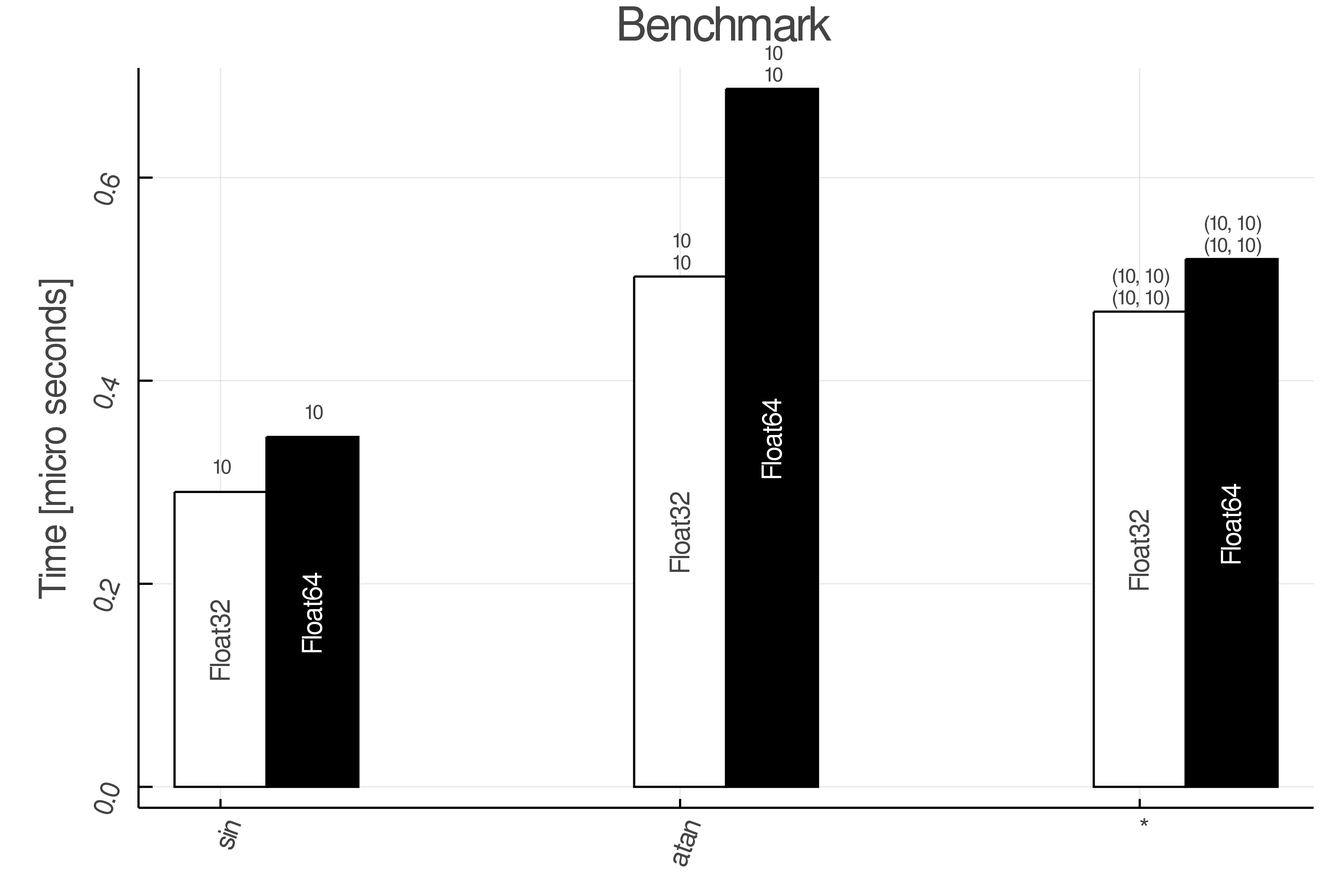
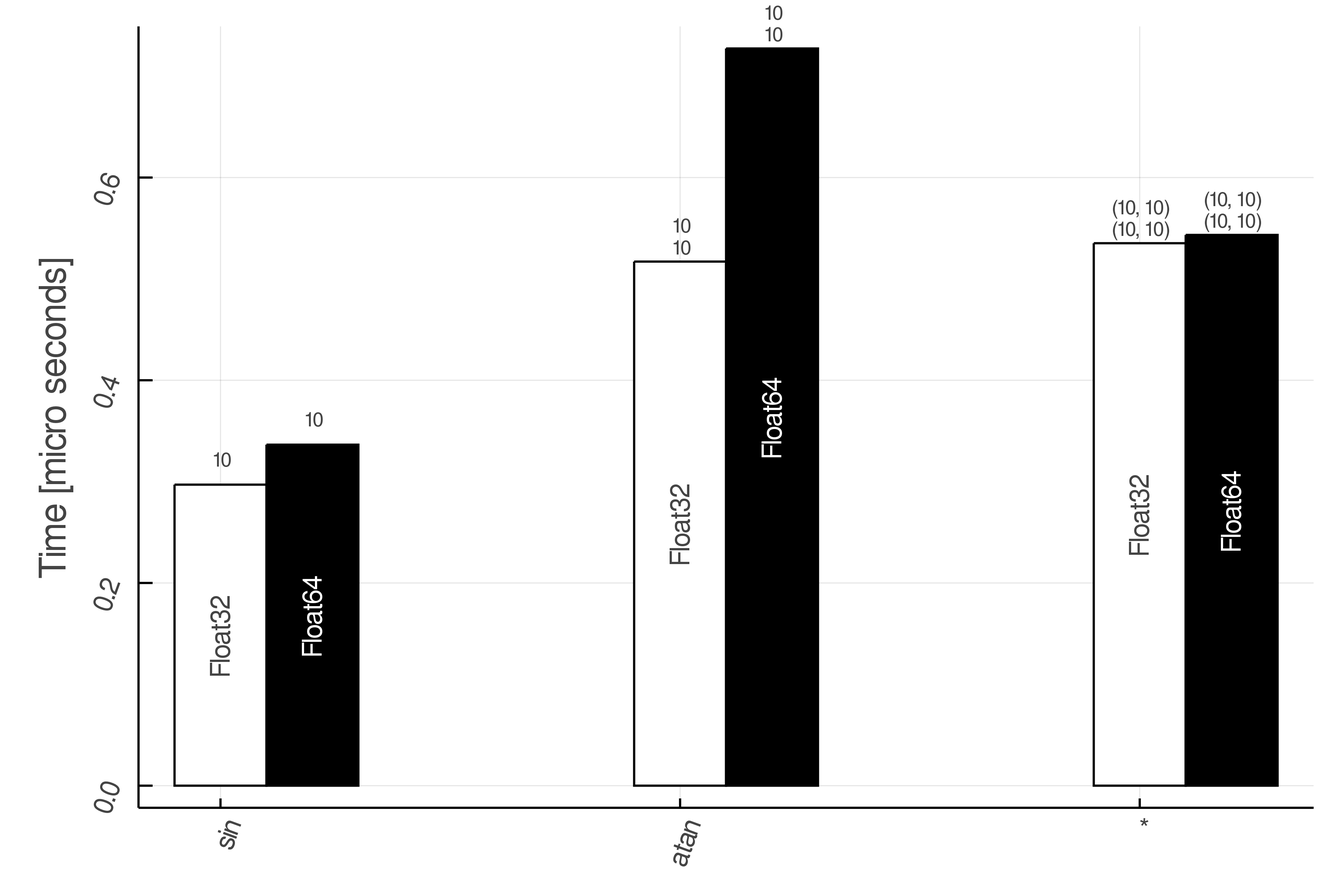
build based on 83bb4e4

diff --git a/dev/index.html b/dev/index.html
@@ -12,12 +12,14 @@ configs = FunbArray([
     Funb( *, [(-1, 1), (-1, 1), (-1, 1)], [Float32, Float64], [(10,10), (10,10)] );
     ])
 
-benchmark!(configs)</code></pre><p>Plot the benchmark result using:</p><pre><code class="language-julia">bardim(configs)</code></pre><p><img src="bench-dims-set1.png" alt="bench-dims-set1"/></p><p>To have a same color for the same types use:</p><pre><code class="language-julia">bardim(configs, true)</code></pre><p><img src="bench-dims-set1-unique.png" alt="bench-dims-set1-unique"/></p><ul><li><a href="index.html#AcuteBenchmark.Funb"><code>AcuteBenchmark.Funb</code></a></li><li><a href="index.html#AcuteBenchmark.FunbArray-Tuple{Array{Funb,N} where N}"><code>AcuteBenchmark.FunbArray</code></a></li><li><a href="index.html#AcuteBenchmark.bardim"><code>AcuteBenchmark.bardim</code></a></li><li><a href="index.html#AcuteBenchmark.benchmark!-Tuple{StructArrays.StructArray{Funb,N,C,I} where I where C&lt;:Union{Tuple, NamedTuple} where N}"><code>AcuteBenchmark.benchmark!</code></a></li><li><a href="index.html#AcuteBenchmark.numArgsDims-Tuple{Any}"><code>AcuteBenchmark.numArgsDims</code></a></li><li><a href="index.html#AcuteBenchmark.save-Tuple{String,StructArrays.StructArray{Funb,N,C,I} where I where C&lt;:Union{Tuple, NamedTuple} where N}"><code>AcuteBenchmark.save</code></a></li></ul><article class="docstring"><header><a class="docstring-binding" id="AcuteBenchmark.Funb" href="#AcuteBenchmark.Funb"><code>AcuteBenchmark.Funb</code></a> — <span class="docstring-category">Type</span></header><section><div><pre><code class="language-julia">Funb(;fun, limits, types, dims)</code></pre><p>Creates random inputs for a function based on limits, types, and dims specified.</p><p><strong>Arguments</strong></p><ul><li>functions: function : Module.fun or :(Module.fun)</li><li>limits: min and max of possible values</li><li>types : type of elements</li><li>dims: Array of dimensions of the input vectors for each argument. Each column is for a new set of sizes, and each row is for different input arguments.</li></ul><p><strong>Examples</strong></p><pre><code class="language-julia">config = Funb(
+benchmark!(configs)</code></pre><p>Plot the benchmark result using:</p><pre><code class="language-julia">bar(configs)</code></pre><p><img src="bench-dims-set1.png" alt="bench-dims-set1"/></p><p>To have a same color for the same types use:</p><pre><code class="language-julia">bar(configs, true)</code></pre><p><img src="bench-dims-set1-unique.png" alt="bench-dims-set1-unique"/></p><p>To plot the relative speed, pass a pair of configs:</p><pre><code class="language-julia">bar(configs =&gt; configs, true)</code></pre><p><img src="test/bench-dims-set1-relative.png" alt="bench-dims-set1-relative"/></p><p>To plot how the function acts over different dimension sets:</p><pre><code class="language-julia">configs2 = Funb( sin, [(-1,1)],[Float32, Float64], [10 20 30 40] );
+benchmark!(configs2)
+dimplot(configs2)</code></pre><p><img src="bench-sin.png" alt="bench-sin"/></p><ul><li><a href="index.html#AcuteBenchmark.Funb"><code>AcuteBenchmark.Funb</code></a></li><li><a href="index.html#AcuteBenchmark.FunbArray-Tuple{Array{Funb,N} where N}"><code>AcuteBenchmark.FunbArray</code></a></li><li><a href="index.html#AcuteBenchmark.bar"><code>AcuteBenchmark.bar</code></a></li><li><a href="index.html#AcuteBenchmark.bar-Union{Tuple{Pair{StructArrays.StructArray{Funb,T1,T2,T3},StructArrays.StructArray{Funb,T1,T2,T3}}}, Tuple{T3}, Tuple{T2}, Tuple{T1}, Tuple{Pair{StructArrays.StructArray{Funb,T1,T2,T3},StructArrays.StructArray{Funb,T1,T2,T3}},Bool}} where T3 where T2 where T1"><code>AcuteBenchmark.bar</code></a></li><li><a href="index.html#AcuteBenchmark.benchmark!-Tuple{StructArrays.StructArray{Funb,N,C,I} where I where C&lt;:Union{Tuple, NamedTuple} where N}"><code>AcuteBenchmark.benchmark!</code></a></li><li><a href="index.html#AcuteBenchmark.dimplot-Tuple{StructArrays.StructArray{Funb,N,C,I} where I where C&lt;:Union{Tuple, NamedTuple} where N}"><code>AcuteBenchmark.dimplot</code></a></li><li><a href="index.html#AcuteBenchmark.numArgsDims-Tuple{Any}"><code>AcuteBenchmark.numArgsDims</code></a></li></ul><article class="docstring"><header><a class="docstring-binding" id="AcuteBenchmark.Funb" href="#AcuteBenchmark.Funb"><code>AcuteBenchmark.Funb</code></a> — <span class="docstring-category">Type</span></header><section><div><pre><code class="language-julia">Funb(;fun, limits, types, dims)</code></pre><p>Creates random inputs for a function based on limits, types, and dims specified.</p><p><strong>Arguments</strong></p><ul><li>functions: function : Module.fun or :(Module.fun)</li><li>limits: min and max of possible values</li><li>types : type of elements</li><li>dims: Array of dimensions of the input vectors for each argument. Each column is for a new set of sizes, and each row is for different input arguments.</li></ul><p><strong>Examples</strong></p><pre><code class="language-julia">config = Funb(
     fun = sin,
     limits = [(-1,1)],
     types = [Float32, Float64],
     dims = [100],
-)</code></pre><p>or just in a compact form:</p><pre><code class="language-julia">config = Funb( sin, [(-1,1)], [Float32, Float64], [100])</code></pre></div><a class="docs-sourcelink" target="_blank" href="https://github.com/aminya/AcuteBenchmark.jl/blob/883faa54ab25eff0676893c8364f6244f1f8c277/src/benchmarks.jl#LL35-L59">source</a></section></article><article class="docstring"><header><a class="docstring-binding" id="AcuteBenchmark.FunbArray-Tuple{Array{Funb,N} where N}" href="#AcuteBenchmark.FunbArray-Tuple{Array{Funb,N} where N}"><code>AcuteBenchmark.FunbArray</code></a> — <span class="docstring-category">Method</span></header><section><div><pre><code class="language-julia">FunbArray</code></pre><p>Array of Funb configs for different functions.</p><p><strong>Examples</strong></p><pre><code class="language-julia">using AcuteBenchmark
+)</code></pre><p>or just in a compact form:</p><pre><code class="language-julia">config = Funb( sin, [(-1,1)], [Float32, Float64], [100])</code></pre></div><a class="docs-sourcelink" target="_blank" href="https://github.com/aminya/AcuteBenchmark.jl/blob/83bb4e427e9a275f6eff9dcea45cc157a09ae0d9/src/benchmarks.jl#LL35-L59">source</a></section></article><article class="docstring"><header><a class="docstring-binding" id="AcuteBenchmark.FunbArray-Tuple{Array{Funb,N} where N}" href="#AcuteBenchmark.FunbArray-Tuple{Array{Funb,N} where N}"><code>AcuteBenchmark.FunbArray</code></a> — <span class="docstring-category">Method</span></header><section><div><pre><code class="language-julia">FunbArray</code></pre><p>Array of Funb configs for different functions.</p><p><strong>Examples</strong></p><pre><code class="language-julia">using AcuteBenchmark
 
 configs = FunbArray([
     Funb( sin, [(-1,1)],[Float32, Float64], [100] );
@@ -35,7 +37,8 @@ configs = FunbArray([
     dims = [ [100],
              [100, 100],
              [(100,100), (100,100)] ],
-)</code></pre></div><a class="docs-sourcelink" target="_blank" href="https://github.com/aminya/AcuteBenchmark.jl/blob/883faa54ab25eff0676893c8364f6244f1f8c277/src/benchmarks.jl#LL112-L144">source</a></section></article><article class="docstring"><header><a class="docstring-binding" id="AcuteBenchmark.bardim" href="#AcuteBenchmark.bardim"><code>AcuteBenchmark.bardim</code></a> — <span class="docstring-category">Function</span></header><section><div><pre><code class="language-julia">bardim(Main.configs, :fun)</code></pre><p>Plots bars for each dimension set.</p><p>It is assumed that number of dimension sets are the same.</p><p><strong>Examples</strong></p><pre><code class="language-julia">bardim(configs)</code></pre></div><a class="docs-sourcelink" target="_blank" href="https://github.com/aminya/AcuteBenchmark.jl/blob/883faa54ab25eff0676893c8364f6244f1f8c277/src/plots.jl#LL23-L34">source</a></section></article><article class="docstring"><header><a class="docstring-binding" id="AcuteBenchmark.benchmark!-Tuple{StructArrays.StructArray{Funb,N,C,I} where I where C&lt;:Union{Tuple, NamedTuple} where N}" href="#AcuteBenchmark.benchmark!-Tuple{StructArrays.StructArray{Funb,N,C,I} where I where C&lt;:Union{Tuple, NamedTuple} where N}"><code>AcuteBenchmark.benchmark!</code></a> — <span class="docstring-category">Method</span></header><section><div><pre><code class="language-julia">benchmark!(config::StructArray{Funb}) # FunbArray{Funb}
+)</code></pre></div><a class="docs-sourcelink" target="_blank" href="https://github.com/aminya/AcuteBenchmark.jl/blob/83bb4e427e9a275f6eff9dcea45cc157a09ae0d9/src/benchmarks.jl#LL112-L144">source</a></section></article><article class="docstring"><header><a class="docstring-binding" id="AcuteBenchmark.bar" href="#AcuteBenchmark.bar"><code>AcuteBenchmark.bar</code></a> — <span class="docstring-category">Function</span></header><section><div><pre><code class="language-julia">bar(config::StructArray{Funb}, uniqueType::Bool = false)</code></pre><p>Plots bars for each dimension set.</p><p>It is assumed that number of dimension sets are the same.</p><p>To have a same color for the same types, set true as the 2nd argument</p><p><strong>Examples</strong></p><pre><code class="language-julia">bar(configs)
+bar(configs, true)</code></pre></div><a class="docs-sourcelink" target="_blank" href="https://github.com/aminya/AcuteBenchmark.jl/blob/83bb4e427e9a275f6eff9dcea45cc157a09ae0d9/src/plots.jl#LL23-L37">source</a></section></article><article class="docstring"><header><a class="docstring-binding" id="AcuteBenchmark.bar-Union{Tuple{Pair{StructArrays.StructArray{Funb,T1,T2,T3},StructArrays.StructArray{Funb,T1,T2,T3}}}, Tuple{T3}, Tuple{T2}, Tuple{T1}, Tuple{Pair{StructArrays.StructArray{Funb,T1,T2,T3},StructArrays.StructArray{Funb,T1,T2,T3}},Bool}} where T3 where T2 where T1" href="#AcuteBenchmark.bar-Union{Tuple{Pair{StructArrays.StructArray{Funb,T1,T2,T3},StructArrays.StructArray{Funb,T1,T2,T3}}}, Tuple{T3}, Tuple{T2}, Tuple{T1}, Tuple{Pair{StructArrays.StructArray{Funb,T1,T2,T3},StructArrays.StructArray{Funb,T1,T2,T3}},Bool}} where T3 where T2 where T1"><code>AcuteBenchmark.bar</code></a> — <span class="docstring-category">Method</span></header><section><div><pre><code class="language-julia">bar(config::Pair{StructArray{Funb}}, uniqueType::Bool = false)</code></pre><p>Gets a pair of StructArrays and calculates relative speed of coresponding elements and plots them.</p><p>Uses the first element of the pair for the configurations and only uses runtimes from the 2nd element of the pair. The relative speed is calculated like this:</p><p>1st element runtimes / 2nd element runtimes</p><pre><code class="language-julia">bar(configs =&gt; configs, true)</code></pre></div><a class="docs-sourcelink" target="_blank" href="https://github.com/aminya/AcuteBenchmark.jl/blob/83bb4e427e9a275f6eff9dcea45cc157a09ae0d9/src/plots.jl#LL109-L120">source</a></section></article><article class="docstring"><header><a class="docstring-binding" id="AcuteBenchmark.benchmark!-Tuple{StructArrays.StructArray{Funb,N,C,I} where I where C&lt;:Union{Tuple, NamedTuple} where N}" href="#AcuteBenchmark.benchmark!-Tuple{StructArrays.StructArray{Funb,N,C,I} where I where C&lt;:Union{Tuple, NamedTuple} where N}"><code>AcuteBenchmark.benchmark!</code></a> — <span class="docstring-category">Method</span></header><section><div><pre><code class="language-julia">benchmark!(config::StructArray{Funb}) # FunbArray{Funb}
 benchmark!(config::Array{Funb})</code></pre><p>Performs the benchmarking on a given Funb.</p><p><strong>Examples</strong></p><pre><code class="language-julia">using AcuteBenchmark
 
 configs = FunbArray([
@@ -44,4 +47,8 @@ configs = FunbArray([
     Funb( *, [(-1, 1), (-1, 1), (-1, 1)], [Float32, Float64], [(100,100), (100,100)] );
     ])
 
-benchmark!(configs)</code></pre></div><a class="docs-sourcelink" target="_blank" href="https://github.com/aminya/AcuteBenchmark.jl/blob/883faa54ab25eff0676893c8364f6244f1f8c277/src/benchmarks.jl#LL159-L177">source</a></section></article><article class="docstring"><header><a class="docstring-binding" id="AcuteBenchmark.numArgsDims-Tuple{Any}" href="#AcuteBenchmark.numArgsDims-Tuple{Any}"><code>AcuteBenchmark.numArgsDims</code></a> — <span class="docstring-category">Method</span></header><section><div><pre><code class="language-julia">numArgsDims(in)</code></pre><p>Finding number of arguments and number of dimension sets</p><p><strong>Examples</strong></p><pre><code class="language-julia">numArgs, numDimsSets = numArgsDims(in)</code></pre></div><a class="docs-sourcelink" target="_blank" href="https://github.com/aminya/AcuteBenchmark.jl/blob/883faa54ab25eff0676893c8364f6244f1f8c277/src/benchmarks.jl#LL13-L21">source</a></section></article><article class="docstring"><header><a class="docstring-binding" id="AcuteBenchmark.save-Tuple{String,StructArrays.StructArray{Funb,N,C,I} where I where C&lt;:Union{Tuple, NamedTuple} where N}" href="#AcuteBenchmark.save-Tuple{String,StructArrays.StructArray{Funb,N,C,I} where I where C&lt;:Union{Tuple, NamedTuple} where N}"><code>AcuteBenchmark.save</code></a> — <span class="docstring-category">Method</span></header><section><div><pre><code class="language-julia">save(filename, configs)</code></pre><p>Save benchmark data</p><p><strong>Examples</strong></p><pre><code class="language-julia">save(&quot;benchmarkdata.jld2&quot;, configs)</code></pre></div><a class="docs-sourcelink" target="_blank" href="https://github.com/aminya/AcuteBenchmark.jl/blob/883faa54ab25eff0676893c8364f6244f1f8c277/src/io.jl#LL3-L11">source</a></section></article></article></div><div class="modal" id="documenter-settings"><div class="modal-background"></div><div class="modal-card"><header class="modal-card-head"><p class="modal-card-title">Settings</p><button class="delete"></button></header><section class="modal-card-body"><p><label class="label">Theme</label><div class="select"><select id="documenter-themepicker"><option value="documenter-light">documenter-light</option><option value="documenter-dark">documenter-dark</option></select></div></p><hr/><p>This document was generated with <a href="https://github.com/JuliaDocs/Documenter.jl">Documenter.jl</a> on <span class="colophon-date" title="Monday 23 December 2019 12:50">Monday 23 December 2019</span>. Using Julia version 1.3.0.</p></section><footer class="modal-card-foot"></footer></div></div></div></body></html>
+benchmark!(configs)</code></pre></div><a class="docs-sourcelink" target="_blank" href="https://github.com/aminya/AcuteBenchmark.jl/blob/83bb4e427e9a275f6eff9dcea45cc157a09ae0d9/src/benchmarks.jl#LL160-L178">source</a></section></article><article class="docstring"><header><a class="docstring-binding" id="AcuteBenchmark.dimplot-Tuple{StructArrays.StructArray{Funb,N,C,I} where I where C&lt;:Union{Tuple, NamedTuple} where N}" href="#AcuteBenchmark.dimplot-Tuple{StructArrays.StructArray{Funb,N,C,I} where I where C&lt;:Union{Tuple, NamedTuple} where N}"><code>AcuteBenchmark.dimplot</code></a> — <span class="docstring-category">Method</span></header><section><div><pre><code class="language-julia">dimplot(config::StructArray{Funb}, fungroup::Vector{Vector{String}})</code></pre><p>Shows runtime of a function for different dimension sets. Functions can be grouped together to be shown in a single plot.</p><p><strong>Examples</strong></p><pre><code class="language-julia">configs2 = Funb( sin, [(-1,1)],[Float32, Float64], [10 20 30 40] );
+
+benchmark!(configs2)
+
+dimplot(configs2)</code></pre></div><a class="docs-sourcelink" target="_blank" href="https://github.com/aminya/AcuteBenchmark.jl/blob/83bb4e427e9a275f6eff9dcea45cc157a09ae0d9/src/plots.jl#LL187-L200">source</a></section></article><article class="docstring"><header><a class="docstring-binding" id="AcuteBenchmark.numArgsDims-Tuple{Any}" href="#AcuteBenchmark.numArgsDims-Tuple{Any}"><code>AcuteBenchmark.numArgsDims</code></a> — <span class="docstring-category">Method</span></header><section><div><pre><code class="language-julia">numArgsDims(in)</code></pre><p>Finding number of arguments and number of dimension sets</p><p><strong>Examples</strong></p><pre><code class="language-julia">numArgs, numDimsSets = numArgsDims(in)</code></pre></div><a class="docs-sourcelink" target="_blank" href="https://github.com/aminya/AcuteBenchmark.jl/blob/83bb4e427e9a275f6eff9dcea45cc157a09ae0d9/src/benchmarks.jl#LL13-L21">source</a></section></article></article></div><div class="modal" id="documenter-settings"><div class="modal-background"></div><div class="modal-card"><header class="modal-card-head"><p class="modal-card-title">Settings</p><button class="delete"></button></header><section class="modal-card-body"><p><label class="label">Theme</label><div class="select"><select id="documenter-themepicker"><option value="documenter-light">documenter-light</option><option value="documenter-dark">documenter-dark</option></select></div></p><hr/><p>This document was generated with <a href="https://github.com/JuliaDocs/Documenter.jl">Documenter.jl</a> on <span class="colophon-date" title="Monday 23 December 2019 15:27">Monday 23 December 2019</span>. Using Julia version 1.3.0.</p></section><footer class="modal-card-foot"></footer></div></div></div></body></html>

diff --git a/dev/search_index.js b/dev/search_index.js
@@ -1,3 +1,3 @@
 var documenterSearchIndex = {"docs":
-[{"location":"index.html#","page":"Home","title":"Home","text":"CurrentModule = AcuteBenchmark","category":"page"},{"location":"index.html#AcuteBenchmark-1","page":"Home","title":"AcuteBenchmark","text":"","category":"section"},{"location":"index.html#","page":"Home","title":"Home","text":"AcuteBenchmark allows you to benchmark functions that get Arrays as their input.","category":"page"},{"location":"index.html#","page":"Home","title":"Home","text":"Creates random inputs for a function based on limits, types, and dims specified.","category":"page"},{"location":"index.html#","page":"Home","title":"Home","text":"config = Funb(\n    fun = sin,\n    limits = [(-1,1)],\n    types = [Float32, Float64],\n    dims = [100],\n)","category":"page"},{"location":"index.html#","page":"Home","title":"Home","text":"or just in a compact form:","category":"page"},{"location":"index.html#","page":"Home","title":"Home","text":"config = Funb( sin, [(-1,1)], [Float32, Float64], [10])","category":"page"},{"location":"index.html#","page":"Home","title":"Home","text":"use benchmark! to run the benchmark:","category":"page"},{"location":"index.html#","page":"Home","title":"Home","text":"using AcuteBenchmark\n\nconfigs = FunbArray([\n    Funb( sin, [(-1,1)],[Float32, Float64], [10] );\n    Funb( atan, [(-1,1), (-1,1)],[Float32, Float64],[10, 10] );\n    Funb( *, [(-1, 1), (-1, 1), (-1, 1)], [Float32, Float64], [(10,10), (10,10)] );\n    ])\n\nbenchmark!(configs)","category":"page"},{"location":"index.html#","page":"Home","title":"Home","text":"Plot the benchmark result using:","category":"page"},{"location":"index.html#","page":"Home","title":"Home","text":"bardim(configs)","category":"page"},{"location":"index.html#","page":"Home","title":"Home","text":"(Image: bench-dims-set1)","category":"page"},{"location":"index.html#","page":"Home","title":"Home","text":"To have a same color for the same types use:","category":"page"},{"location":"index.html#","page":"Home","title":"Home","text":"bardim(configs, true)","category":"page"},{"location":"index.html#","page":"Home","title":"Home","text":"(Image: bench-dims-set1-unique)","category":"page"},{"location":"index.html#","page":"Home","title":"Home","text":"","category":"page"},{"location":"index.html#","page":"Home","title":"Home","text":"Modules = [AcuteBenchmark]","category":"page"},{"location":"index.html#AcuteBenchmark.Funb","page":"Home","title":"AcuteBenchmark.Funb","text":"Funb(;fun, limits, types, dims)\n\nCreates random inputs for a function based on limits, types, and dims specified.\n\nArguments\n\nfunctions: function : Module.fun or :(Module.fun)\nlimits: min and max of possible values\ntypes : type of elements\ndims: Array of dimensions of the input vectors for each argument. Each column is for a new set of sizes, and each row is for different input arguments.\n\nExamples\n\nconfig = Funb(\n    fun = sin,\n    limits = [(-1,1)],\n    types = [Float32, Float64],\n    dims = [100],\n)\n\nor just in a compact form:\n\nconfig = Funb( sin, [(-1,1)], [Float32, Float64], [100])\n\n\n\n\n\n","category":"type"},{"location":"index.html#AcuteBenchmark.FunbArray-Tuple{Array{Funb,N} where N}","page":"Home","title":"AcuteBenchmark.FunbArray","text":"FunbArray\n\nArray of Funb configs for different functions.\n\nExamples\n\nusing AcuteBenchmark\n\nconfigs = FunbArray([\n    Funb( sin, [(-1,1)],[Float32, Float64], [100] );\n    Funb( atan, [(-1,1), (-1,1)],[Float32, Float64],[100, 100] );\n    Funb( *, [(-1, 1), (-1, 1), (-1, 1)], [Float32, Float64], [(100,100), (100,100)] );\n    ])\n\n\nYou can also directly give the configs in vectors:\n\nconfigs = FunbArray(\n    fun =   [sin,\n             atan,\n             *],\n    limits = [[(-1,1)],\n             [(-1,1), (-1,1)],\n             [(-1, 1), (-1, 1), (-1, 1)]],\n    types = fill([Float32, Float64], (3)),\n    dims = [ [100],\n             [100, 100],\n             [(100,100), (100,100)] ],\n)\n\n\n\n\n\n","category":"method"},{"location":"index.html#AcuteBenchmark.bardim","page":"Home","title":"AcuteBenchmark.bardim","text":"bardim(Main.configs, :fun)\n\nPlots bars for each dimension set.\n\nIt is assumed that number of dimension sets are the same.\n\nExamples\n\nbardim(configs)\n\n\n\n\n\n","category":"function"},{"location":"index.html#AcuteBenchmark.benchmark!-Tuple{StructArrays.StructArray{Funb,N,C,I} where I where C<:Union{Tuple, NamedTuple} where N}","page":"Home","title":"AcuteBenchmark.benchmark!","text":"benchmark!(config::StructArray{Funb}) # FunbArray{Funb}\nbenchmark!(config::Array{Funb})\n\nPerforms the benchmarking on a given Funb.\n\nExamples\n\nusing AcuteBenchmark\n\nconfigs = FunbArray([\n    Funb( sin, [(-1,1)],[Float32, Float64], [100] );\n    Funb( atan, [(-1,1), (-1,1)],[Float32, Float64],[100, 100] );\n    Funb( *, [(-1, 1), (-1, 1), (-1, 1)], [Float32, Float64], [(100,100), (100,100)] );\n    ])\n\nbenchmark!(configs)\n\n\n\n\n\n","category":"method"},{"location":"index.html#AcuteBenchmark.numArgsDims-Tuple{Any}","page":"Home","title":"AcuteBenchmark.numArgsDims","text":"numArgsDims(in)\n\nFinding number of arguments and number of dimension sets\n\nExamples\n\nnumArgs, numDimsSets = numArgsDims(in)\n\n\n\n\n\n","category":"method"},{"location":"index.html#AcuteBenchmark.save-Tuple{String,StructArrays.StructArray{Funb,N,C,I} where I where C<:Union{Tuple, NamedTuple} where N}","page":"Home","title":"AcuteBenchmark.save","text":"save(filename, configs)\n\nSave benchmark data\n\nExamples\n\nsave(\"benchmarkdata.jld2\", configs)\n\n\n\n\n\n","category":"method"}]
+[{"location":"index.html#","page":"Home","title":"Home","text":"CurrentModule = AcuteBenchmark","category":"page"},{"location":"index.html#AcuteBenchmark-1","page":"Home","title":"AcuteBenchmark","text":"","category":"section"},{"location":"index.html#","page":"Home","title":"Home","text":"AcuteBenchmark allows you to benchmark functions that get Arrays as their input.","category":"page"},{"location":"index.html#","page":"Home","title":"Home","text":"Creates random inputs for a function based on limits, types, and dims specified.","category":"page"},{"location":"index.html#","page":"Home","title":"Home","text":"config = Funb(\n    fun = sin,\n    limits = [(-1,1)],\n    types = [Float32, Float64],\n    dims = [100],\n)","category":"page"},{"location":"index.html#","page":"Home","title":"Home","text":"or just in a compact form:","category":"page"},{"location":"index.html#","page":"Home","title":"Home","text":"config = Funb( sin, [(-1,1)], [Float32, Float64], [10])","category":"page"},{"location":"index.html#","page":"Home","title":"Home","text":"use benchmark! to run the benchmark:","category":"page"},{"location":"index.html#","page":"Home","title":"Home","text":"using AcuteBenchmark\n\nconfigs = FunbArray([\n    Funb( sin, [(-1,1)],[Float32, Float64], [10] );\n    Funb( atan, [(-1,1), (-1,1)],[Float32, Float64],[10, 10] );\n    Funb( *, [(-1, 1), (-1, 1), (-1, 1)], [Float32, Float64], [(10,10), (10,10)] );\n    ])\n\nbenchmark!(configs)","category":"page"},{"location":"index.html#","page":"Home","title":"Home","text":"Plot the benchmark result using:","category":"page"},{"location":"index.html#","page":"Home","title":"Home","text":"bar(configs)","category":"page"},{"location":"index.html#","page":"Home","title":"Home","text":"(Image: bench-dims-set1)","category":"page"},{"location":"index.html#","page":"Home","title":"Home","text":"To have a same color for the same types use:","category":"page"},{"location":"index.html#","page":"Home","title":"Home","text":"bar(configs, true)","category":"page"},{"location":"index.html#","page":"Home","title":"Home","text":"(Image: bench-dims-set1-unique)","category":"page"},{"location":"index.html#","page":"Home","title":"Home","text":"To plot the relative speed, pass a pair of configs:","category":"page"},{"location":"index.html#","page":"Home","title":"Home","text":"bar(configs => configs, true)","category":"page"},{"location":"index.html#","page":"Home","title":"Home","text":"(Image: bench-dims-set1-relative)","category":"page"},{"location":"index.html#","page":"Home","title":"Home","text":"To plot how the function acts over different dimension sets:","category":"page"},{"location":"index.html#","page":"Home","title":"Home","text":"configs2 = Funb( sin, [(-1,1)],[Float32, Float64], [10 20 30 40] );\nbenchmark!(configs2)\ndimplot(configs2)","category":"page"},{"location":"index.html#","page":"Home","title":"Home","text":"(Image: bench-sin)","category":"page"},{"location":"index.html#","page":"Home","title":"Home","text":"","category":"page"},{"location":"index.html#","page":"Home","title":"Home","text":"Modules = [AcuteBenchmark]","category":"page"},{"location":"index.html#AcuteBenchmark.Funb","page":"Home","title":"AcuteBenchmark.Funb","text":"Funb(;fun, limits, types, dims)\n\nCreates random inputs for a function based on limits, types, and dims specified.\n\nArguments\n\nfunctions: function : Module.fun or :(Module.fun)\nlimits: min and max of possible values\ntypes : type of elements\ndims: Array of dimensions of the input vectors for each argument. Each column is for a new set of sizes, and each row is for different input arguments.\n\nExamples\n\nconfig = Funb(\n    fun = sin,\n    limits = [(-1,1)],\n    types = [Float32, Float64],\n    dims = [100],\n)\n\nor just in a compact form:\n\nconfig = Funb( sin, [(-1,1)], [Float32, Float64], [100])\n\n\n\n\n\n","category":"type"},{"location":"index.html#AcuteBenchmark.FunbArray-Tuple{Array{Funb,N} where N}","page":"Home","title":"AcuteBenchmark.FunbArray","text":"FunbArray\n\nArray of Funb configs for different functions.\n\nExamples\n\nusing AcuteBenchmark\n\nconfigs = FunbArray([\n    Funb( sin, [(-1,1)],[Float32, Float64], [100] );\n    Funb( atan, [(-1,1), (-1,1)],[Float32, Float64],[100, 100] );\n    Funb( *, [(-1, 1), (-1, 1), (-1, 1)], [Float32, Float64], [(100,100), (100,100)] );\n    ])\n\n\nYou can also directly give the configs in vectors:\n\nconfigs = FunbArray(\n    fun =   [sin,\n             atan,\n             *],\n    limits = [[(-1,1)],\n             [(-1,1), (-1,1)],\n             [(-1, 1), (-1, 1), (-1, 1)]],\n    types = fill([Float32, Float64], (3)),\n    dims = [ [100],\n             [100, 100],\n             [(100,100), (100,100)] ],\n)\n\n\n\n\n\n","category":"method"},{"location":"index.html#AcuteBenchmark.bar","page":"Home","title":"AcuteBenchmark.bar","text":"bar(config::StructArray{Funb}, uniqueType::Bool = false)\n\nPlots bars for each dimension set.\n\nIt is assumed that number of dimension sets are the same.\n\nTo have a same color for the same types, set true as the 2nd argument\n\nExamples\n\nbar(configs)\nbar(configs, true)\n\n\n\n\n\n","category":"function"},{"location":"index.html#AcuteBenchmark.bar-Union{Tuple{Pair{StructArrays.StructArray{Funb,T1,T2,T3},StructArrays.StructArray{Funb,T1,T2,T3}}}, Tuple{T3}, Tuple{T2}, Tuple{T1}, Tuple{Pair{StructArrays.StructArray{Funb,T1,T2,T3},StructArrays.StructArray{Funb,T1,T2,T3}},Bool}} where T3 where T2 where T1","page":"Home","title":"AcuteBenchmark.bar","text":"bar(config::Pair{StructArray{Funb}}, uniqueType::Bool = false)\n\nGets a pair of StructArrays and calculates relative speed of coresponding elements and plots them.\n\nUses the first element of the pair for the configurations and only uses runtimes from the 2nd element of the pair. The relative speed is calculated like this:\n\n1st element runtimes / 2nd element runtimes\n\nbar(configs => configs, true)\n\n\n\n\n\n","category":"method"},{"location":"index.html#AcuteBenchmark.benchmark!-Tuple{StructArrays.StructArray{Funb,N,C,I} where I where C<:Union{Tuple, NamedTuple} where N}","page":"Home","title":"AcuteBenchmark.benchmark!","text":"benchmark!(config::StructArray{Funb}) # FunbArray{Funb}\nbenchmark!(config::Array{Funb})\n\nPerforms the benchmarking on a given Funb.\n\nExamples\n\nusing AcuteBenchmark\n\nconfigs = FunbArray([\n    Funb( sin, [(-1,1)],[Float32, Float64], [100] );\n    Funb( atan, [(-1,1), (-1,1)],[Float32, Float64],[100, 100] );\n    Funb( *, [(-1, 1), (-1, 1), (-1, 1)], [Float32, Float64], [(100,100), (100,100)] );\n    ])\n\nbenchmark!(configs)\n\n\n\n\n\n","category":"method"},{"location":"index.html#AcuteBenchmark.dimplot-Tuple{StructArrays.StructArray{Funb,N,C,I} where I where C<:Union{Tuple, NamedTuple} where N}","page":"Home","title":"AcuteBenchmark.dimplot","text":"dimplot(config::StructArray{Funb}, fungroup::Vector{Vector{String}})\n\nShows runtime of a function for different dimension sets. Functions can be grouped together to be shown in a single plot.\n\nExamples\n\nconfigs2 = Funb( sin, [(-1,1)],[Float32, Float64], [10 20 30 40] );\n\nbenchmark!(configs2)\n\ndimplot(configs2)\n\n\n\n\n\n","category":"method"},{"location":"index.html#AcuteBenchmark.numArgsDims-Tuple{Any}","page":"Home","title":"AcuteBenchmark.numArgsDims","text":"numArgsDims(in)\n\nFinding number of arguments and number of dimension sets\n\nExamples\n\nnumArgs, numDimsSets = numArgsDims(in)\n\n\n\n\n\n","category":"method"}]
 }

diff --git a/dev/search.html b/dev/search.html
@@ -1,2 +1,2 @@
 <!DOCTYPE html>
-<html lang="en"><head><meta charset="UTF-8"/><meta name="viewport" content="width=device-width, initial-scale=1.0"/><title>Search · AcuteBenchmark.jl</title><link rel="canonical" href="https://aminya.github.io/AcuteBenchmark.jl/search.html"/><link href="https://fonts.googleapis.com/css?family=Lato|Roboto+Mono" rel="stylesheet" type="text/css"/><link href="https://cdnjs.cloudflare.com/ajax/libs/font-awesome/5.11.2/css/fontawesome.min.css" rel="stylesheet" type="text/css"/><link href="https://cdnjs.cloudflare.com/ajax/libs/font-awesome/5.11.2/css/solid.min.css" rel="stylesheet" type="text/css"/><link href="https://cdnjs.cloudflare.com/ajax/libs/font-awesome/5.11.2/css/brands.min.css" rel="stylesheet" type="text/css"/><link href="https://cdnjs.cloudflare.com/ajax/libs/KaTeX/0.11.1/katex.min.css" rel="stylesheet" type="text/css"/><script>documenterBaseURL="."</script><script src="https://cdnjs.cloudflare.com/ajax/libs/require.js/2.3.6/require.min.js" data-main="assets/documenter.js"></script><script src="siteinfo.js"></script><script src="../versions.js"></script><link class="docs-theme-link" rel="stylesheet" type="text/css" href="assets/themes/documenter-dark.css" data-theme-name="documenter-dark"/><link class="docs-theme-link" rel="stylesheet" type="text/css" href="assets/themes/documenter-light.css" data-theme-name="documenter-light" data-theme-primary/><script src="assets/themeswap.js"></script></head><body><div id="documenter"><nav class="docs-sidebar"><div class="docs-package-name"><span class="docs-autofit">AcuteBenchmark.jl</span></div><form class="docs-search" action="search.html"><input class="docs-search-query" id="documenter-search-query" name="q" type="text" placeholder="Search docs"/></form><ul class="docs-menu"><li><a class="tocitem" href="index.html">Home</a></li></ul><div class="docs-version-selector field has-addons"><div class="control"><span class="docs-label button is-static is-size-7">Version</span></div><div class="docs-selector control is-expanded"><div class="select is-fullwidth is-size-7"><select id="documenter-version-selector"></select></div></div></div></nav><div class="docs-main"><header class="docs-navbar"><nav class="breadcrumb"><ul class="is-hidden-mobile"><li class="is-active"><a href="search.html">Search</a></li></ul><ul class="is-hidden-tablet"><li class="is-active"><a href="search.html">Search</a></li></ul></nav><div class="docs-right"><a class="docs-settings-button fas fa-cog" id="documenter-settings-button" href="#" title="Settings"></a><a class="docs-sidebar-button fa fa-bars is-hidden-desktop" id="documenter-sidebar-button" href="#"></a></div></header><article><p id="documenter-search-info">Loading search...</p><ul id="documenter-search-results"></ul></article></div><div class="modal" id="documenter-settings"><div class="modal-background"></div><div class="modal-card"><header class="modal-card-head"><p class="modal-card-title">Settings</p><button class="delete"></button></header><section class="modal-card-body"><p><label class="label">Theme</label><div class="select"><select id="documenter-themepicker"><option value="documenter-light">documenter-light</option><option value="documenter-dark">documenter-dark</option></select></div></p><hr/><p>This document was generated with <a href="https://github.com/JuliaDocs/Documenter.jl">Documenter.jl</a> on <span class="colophon-date" title="Monday 23 December 2019 12:50">Monday 23 December 2019</span>. Using Julia version 1.3.0.</p></section><footer class="modal-card-foot"></footer></div></div></div></body><script src="search_index.js"></script><script src="assets/search.js"></script></html>
+<html lang="en"><head><meta charset="UTF-8"/><meta name="viewport" content="width=device-width, initial-scale=1.0"/><title>Search · AcuteBenchmark.jl</title><link rel="canonical" href="https://aminya.github.io/AcuteBenchmark.jl/search.html"/><link href="https://fonts.googleapis.com/css?family=Lato|Roboto+Mono" rel="stylesheet" type="text/css"/><link href="https://cdnjs.cloudflare.com/ajax/libs/font-awesome/5.11.2/css/fontawesome.min.css" rel="stylesheet" type="text/css"/><link href="https://cdnjs.cloudflare.com/ajax/libs/font-awesome/5.11.2/css/solid.min.css" rel="stylesheet" type="text/css"/><link href="https://cdnjs.cloudflare.com/ajax/libs/font-awesome/5.11.2/css/brands.min.css" rel="stylesheet" type="text/css"/><link href="https://cdnjs.cloudflare.com/ajax/libs/KaTeX/0.11.1/katex.min.css" rel="stylesheet" type="text/css"/><script>documenterBaseURL="."</script><script src="https://cdnjs.cloudflare.com/ajax/libs/require.js/2.3.6/require.min.js" data-main="assets/documenter.js"></script><script src="siteinfo.js"></script><script src="../versions.js"></script><link class="docs-theme-link" rel="stylesheet" type="text/css" href="assets/themes/documenter-dark.css" data-theme-name="documenter-dark"/><link class="docs-theme-link" rel="stylesheet" type="text/css" href="assets/themes/documenter-light.css" data-theme-name="documenter-light" data-theme-primary/><script src="assets/themeswap.js"></script></head><body><div id="documenter"><nav class="docs-sidebar"><div class="docs-package-name"><span class="docs-autofit">AcuteBenchmark.jl</span></div><form class="docs-search" action="search.html"><input class="docs-search-query" id="documenter-search-query" name="q" type="text" placeholder="Search docs"/></form><ul class="docs-menu"><li><a class="tocitem" href="index.html">Home</a></li></ul><div class="docs-version-selector field has-addons"><div class="control"><span class="docs-label button is-static is-size-7">Version</span></div><div class="docs-selector control is-expanded"><div class="select is-fullwidth is-size-7"><select id="documenter-version-selector"></select></div></div></div></nav><div class="docs-main"><header class="docs-navbar"><nav class="breadcrumb"><ul class="is-hidden-mobile"><li class="is-active"><a href="search.html">Search</a></li></ul><ul class="is-hidden-tablet"><li class="is-active"><a href="search.html">Search</a></li></ul></nav><div class="docs-right"><a class="docs-settings-button fas fa-cog" id="documenter-settings-button" href="#" title="Settings"></a><a class="docs-sidebar-button fa fa-bars is-hidden-desktop" id="documenter-sidebar-button" href="#"></a></div></header><article><p id="documenter-search-info">Loading search...</p><ul id="documenter-search-results"></ul></article></div><div class="modal" id="documenter-settings"><div class="modal-background"></div><div class="modal-card"><header class="modal-card-head"><p class="modal-card-title">Settings</p><button class="delete"></button></header><section class="modal-card-body"><p><label class="label">Theme</label><div class="select"><select id="documenter-themepicker"><option value="documenter-light">documenter-light</option><option value="documenter-dark">documenter-dark</option></select></div></p><hr/><p>This document was generated with <a href="https://github.com/JuliaDocs/Documenter.jl">Documenter.jl</a> on <span class="colophon-date" title="Monday 23 December 2019 15:27">Monday 23 December 2019</span>. Using Julia version 1.3.0.</p></section><footer class="modal-card-foot"></footer></div></div></div></body><script src="search_index.js"></script><script src="assets/search.js"></script></html>
